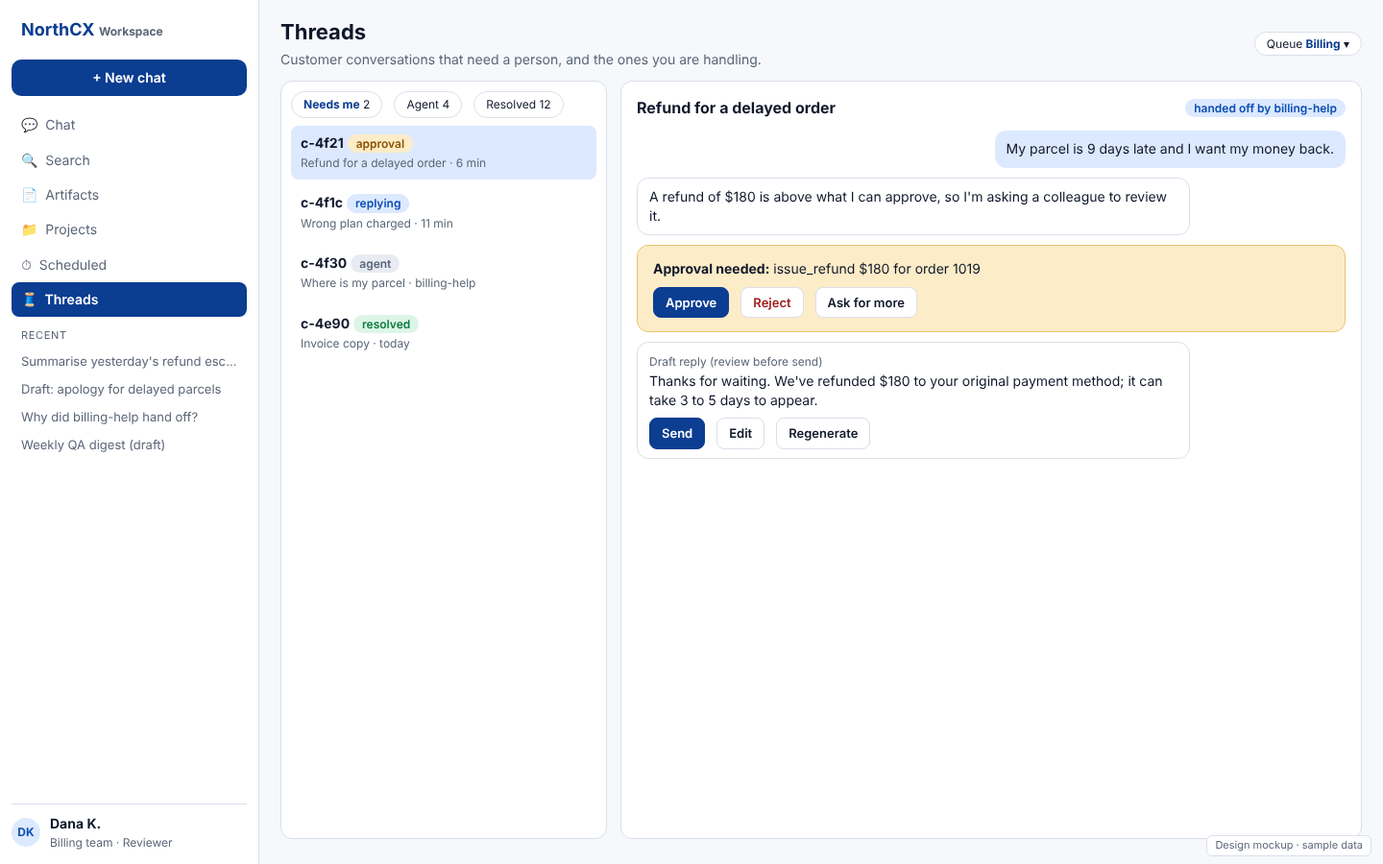
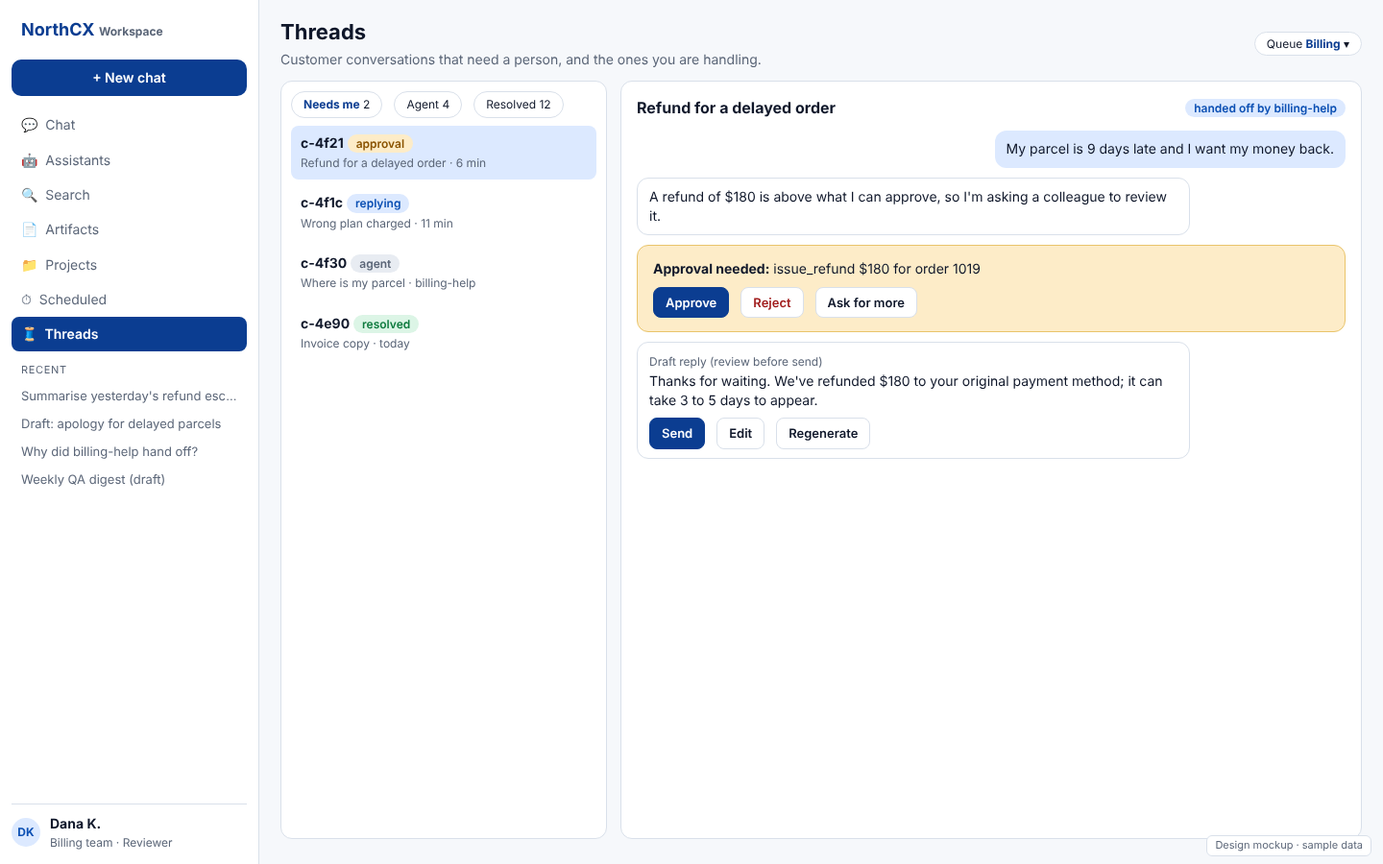
Workspace: Assistants as a tab in the left navigation (second, after Chat); all workspace mockups regenerated
Claude-Session: https://claude.ai/code/session_01JwVSXDmBfAEtrqDiy6qnSt

Changed region(s): [[0.0, 0.2178, 0.1875, 0.56], [0.0312, 0.1556, 0.0625, 0.1867]]

diff --git a/docs/07-design/mockups/19-workspace-scheduled.html b/docs/07-design/mockups/19-workspace-scheduled.html
@@ -39,7 +39,7 @@ td{padding:9px 10px;border-bottom:1px solid var(--border)}tr:last-child td{borde
 .sw2{width:36px;height:20px;border-radius:12px;background:var(--primary);position:relative;display:inline-block}.sw2:after{content:"";position:absolute;right:2px;top:2px;width:16px;height:16px;border-radius:50%;background:#fff}.sw2.off{background:var(--border)}.sw2.off:after{right:auto;left:2px}
 .setnav a{display:block;padding:8px 12px;border-radius:8px;color:var(--muted)}.setnav a.on{background:var(--info-bg);color:var(--info);font-weight:700}.setnav .grp{padding-top:14px}
 </style></head><body><div class="ws2">
-<div class="side"><div class="brand">NorthCX <span class="note">Workspace</span></div><a class="newc">+ New chat</a><div class="nav"><a class=""><span>&#128172; &nbsp;Chat</span></a><a class=""><span>&#128269; &nbsp;Search</span></a><a class=""><span>&#128196; &nbsp;Artifacts</span></a><a class=""><span>&#128193; &nbsp;Projects</span></a><a class="on"><span>&#9201; &nbsp;Scheduled</span></a><a class=""><span>&#129525; &nbsp;Threads</span></a></div><div class="grp">Recent</div><div class="recent ">Summarise yesterday&#x27;s refund escalations</div><div class="recent ">Draft: apology for delayed parcels</div><div class="recent ">Why did billing-help hand off?</div><div class="recent ">Weekly QA digest (draft)</div>
+<div class="side"><div class="brand">NorthCX <span class="note">Workspace</span></div><a class="newc">+ New chat</a><div class="nav"><a class=""><span>&#128172; &nbsp;Chat</span></a><a class=""><span>&#129302; &nbsp;Assistants</span></a><a class=""><span>&#128269; &nbsp;Search</span></a><a class=""><span>&#128196; &nbsp;Artifacts</span></a><a class=""><span>&#128193; &nbsp;Projects</span></a><a class="on"><span>&#9201; &nbsp;Scheduled</span></a><a class=""><span>&#129525; &nbsp;Threads</span></a></div><div class="grp">Recent</div><div class="recent ">Summarise yesterday&#x27;s refund escalations</div><div class="recent ">Draft: apology for delayed parcels</div><div class="recent ">Why did billing-help hand off?</div><div class="recent ">Weekly QA digest (draft)</div>
 <div class="me"><div class="av">DK</div><div><b>Dana K.</b><div class="note">Billing team &middot; Reviewer</div></div></div></div>
 <div class="work"><div class="row2" style="margin-bottom:12px"><div><h1 style="margin:0">Scheduled</h1><p class="sub" style="margin:2px 0 0">Tasks that run on their own and leave an artifact or a message. Every run is listed.</p></div><div><span class="btn p">+ New scheduled task</span></div></div>
 <div class="card" style="padding:4px 14px"><table><thead><tr><th>Task</th><th>Runs</th><th>Delivers to</th><th>Last run</th><th>Next run</th><th>Status</th><th></th></tr></thead><tbody><tr><td><b>Daily hand-off triage</b><br><span class=note>Tag and rank open hand-offs by urgency</span></td><td>every weekday 07:30</td><td>Billing queue</td><td>today 07:30</td><td>tomorrow 07:30</td><td><span class="b ok">OK</span></td><td><span class="sw2"></span></td></tr><tr><td><b>Weekly QA digest</b><br><span class=note>Score sampled conversations, summarise trends</span></td><td>Mondays 08:00</td><td>Artifact + email to leads</td><td>Mon 08:00</td><td>next Mon</td><td><span class="b ok">OK</span></td><td><span class="sw2"></span></td></tr><tr><td><b>SLA breach sweep</b><br><span class=note>Find hand-offs waiting over 30 min</span></td><td>every 15 min</td><td>Team channel</td><td>12 min ago</td><td>in 3 min</td><td><span class="b warn">1 failed run</span></td><td><span class="sw2"></span></td></tr><tr><td><b>Knowledge freshness check</b><br><span class=note>List sources not updated in 90 days</span></td><td>monthly</td><td>Artifact</td><td>Nov 1</td><td>Dec 1</td><td><span class="b gr">Paused</span></td><td><span class="sw2 off"></span></td></tr></tbody></table></div>

diff --git a/docs/07-design/mockups/18-workspace-projects.html b/docs/07-design/mockups/18-workspace-projects.html
@@ -39,7 +39,7 @@ td{padding:9px 10px;border-bottom:1px solid var(--border)}tr:last-child td{borde
 .sw2{width:36px;height:20px;border-radius:12px;background:var(--primary);position:relative;display:inline-block}.sw2:after{content:"";position:absolute;right:2px;top:2px;width:16px;height:16px;border-radius:50%;background:#fff}.sw2.off{background:var(--border)}.sw2.off:after{right:auto;left:2px}
 .setnav a{display:block;padding:8px 12px;border-radius:8px;color:var(--muted)}.setnav a.on{background:var(--info-bg);color:var(--info);font-weight:700}.setnav .grp{padding-top:14px}
 </style></head><body><div class="ws2">
-<div class="side"><div class="brand">NorthCX <span class="note">Workspace</span></div><a class="newc">+ New chat</a><div class="nav"><a class=""><span>&#128172; &nbsp;Chat</span></a><a class=""><span>&#128269; &nbsp;Search</span></a><a class=""><span>&#128196; &nbsp;Artifacts</span></a><a class="on"><span>&#128193; &nbsp;Projects</span></a><a class=""><span>&#9201; &nbsp;Scheduled</span></a><a class=""><span>&#129525; &nbsp;Threads</span></a></div><div class="grp">Recent</div><div class="recent ">Summarise yesterday&#x27;s refund escalations</div><div class="recent ">Draft: apology for delayed parcels</div><div class="recent ">Why did billing-help hand off?</div><div class="recent ">Weekly QA digest (draft)</div>
+<div class="side"><div class="brand">NorthCX <span class="note">Workspace</span></div><a class="newc">+ New chat</a><div class="nav"><a class=""><span>&#128172; &nbsp;Chat</span></a><a class=""><span>&#129302; &nbsp;Assistants</span></a><a class=""><span>&#128269; &nbsp;Search</span></a><a class=""><span>&#128196; &nbsp;Artifacts</span></a><a class="on"><span>&#128193; &nbsp;Projects</span></a><a class=""><span>&#9201; &nbsp;Scheduled</span></a><a class=""><span>&#129525; &nbsp;Threads</span></a></div><div class="grp">Recent</div><div class="recent ">Summarise yesterday&#x27;s refund escalations</div><div class="recent ">Draft: apology for delayed parcels</div><div class="recent ">Why did billing-help hand off?</div><div class="recent ">Weekly QA digest (draft)</div>
 <div class="me"><div class="av">DK</div><div><b>Dana K.</b><div class="note">Billing team &middot; Reviewer</div></div></div></div>
 <div class="work"><div class="row2" style="margin-bottom:12px"><div><h1 style="margin:0">Projects</h1><p class="sub" style="margin:2px 0 0">A project keeps instructions, sources, chats and artifacts for one piece of work together.</p></div><div><span class="btn p">+ New project</span></div></div>
 <div class="g3"><div class="card"><div class="row2"><b>Billing escalations</b><span class="b info">team</span></div><p class="note">Instructions: be brief, cite the policy, never quote card numbers.</p><p class="note">Sources: Refund policy, Billing playbook &middot; 14 chats &middot; 6 artifacts</p><div class="bar"><i style="width:62%"></i></div><p class="note">Context in use: 62%</p></div>

diff --git a/docs/07-design/mockups/25-workspace-home.html b/docs/07-design/mockups/25-workspace-home.html
@@ -39,7 +39,7 @@ td{padding:9px 10px;border-bottom:1px solid var(--border)}tr:last-child td{borde
 .sw2{width:36px;height:20px;border-radius:12px;background:var(--primary);position:relative;display:inline-block}.sw2:after{content:"";position:absolute;right:2px;top:2px;width:16px;height:16px;border-radius:50%;background:#fff}.sw2.off{background:var(--border)}.sw2.off:after{right:auto;left:2px}
 .setnav a{display:block;padding:8px 12px;border-radius:8px;color:var(--muted)}.setnav a.on{background:var(--info-bg);color:var(--info);font-weight:700}.setnav .grp{padding-top:14px}
 </style></head><body><div class="ws2">
-<div class="side"><div class="brand">NorthCX <span class="note">Workspace</span></div><a class="newc">+ New chat</a><div class="nav"><a class="on"><span>&#128172; &nbsp;Chat</span></a><a class=""><span>&#128269; &nbsp;Search</span></a><a class=""><span>&#128196; &nbsp;Artifacts</span></a><a class=""><span>&#128193; &nbsp;Projects</span></a><a class=""><span>&#9201; &nbsp;Scheduled</span></a><a class=""><span>&#129525; &nbsp;Threads</span></a></div><div class="grp">Recent</div><div class="recent ">Summarise yesterday&#x27;s refund escalations</div><div class="recent ">Draft: apology for delayed parcels</div><div class="recent ">Why did billing-help hand off?</div><div class="recent ">Weekly QA digest (draft)</div>
+<div class="side"><div class="brand">NorthCX <span class="note">Workspace</span></div><a class="newc">+ New chat</a><div class="nav"><a class="on"><span>&#128172; &nbsp;Chat</span></a><a class=""><span>&#129302; &nbsp;Assistants</span></a><a class=""><span>&#128269; &nbsp;Search</span></a><a class=""><span>&#128196; &nbsp;Artifacts</span></a><a class=""><span>&#128193; &nbsp;Projects</span></a><a class=""><span>&#9201; &nbsp;Scheduled</span></a><a class=""><span>&#129525; &nbsp;Threads</span></a></div><div class="grp">Recent</div><div class="recent ">Summarise yesterday&#x27;s refund escalations</div><div class="recent ">Draft: apology for delayed parcels</div><div class="recent ">Why did billing-help hand off?</div><div class="recent ">Weekly QA digest (draft)</div>
 <div class="me"><div class="av">DK</div><div><b>Dana K.</b><div class="note">Billing team &middot; Reviewer</div></div></div></div>
 <div class="work"><div style="max-width:880px;margin:30px auto 0"><h1 style="font-size:28px;margin:0 0 4px">Good afternoon, Dana</h1><p class="sub">2 things need you. Your Monday QA digest is ready.</p>
 <div class="card" style="padding:16px;margin-top:14px"><span class="mut" style="font-size:16px">What do you want to do?</span><div class="row" style="margin-top:14px;gap:8px"><span class="pill">+</span><span class="pill">Assistant <b>care-copilot</b></span><span class="pill">Project <b>Billing escalations</b></span><span class="pill">Sources <b>Knowledge, Conversations</b></span><div style="flex:1"></div><span class="btn p">Start</span></div></div>

diff --git a/docs/07-design/mockups/24-workspace-artifacts.html b/docs/07-design/mockups/24-workspace-artifacts.html
@@ -39,7 +39,7 @@ td{padding:9px 10px;border-bottom:1px solid var(--border)}tr:last-child td{borde
 .sw2{width:36px;height:20px;border-radius:12px;background:var(--primary);position:relative;display:inline-block}.sw2:after{content:"";position:absolute;right:2px;top:2px;width:16px;height:16px;border-radius:50%;background:#fff}.sw2.off{background:var(--border)}.sw2.off:after{right:auto;left:2px}
 .setnav a{display:block;padding:8px 12px;border-radius:8px;color:var(--muted)}.setnav a.on{background:var(--info-bg);color:var(--info);font-weight:700}.setnav .grp{padding-top:14px}
 </style></head><body><div class="ws2">
-<div class="side"><div class="brand">NorthCX <span class="note">Workspace</span></div><a class="newc">+ New chat</a><div class="nav"><a class=""><span>&#128172; &nbsp;Chat</span></a><a class=""><span>&#128269; &nbsp;Search</span></a><a class="on"><span>&#128196; &nbsp;Artifacts</span></a><a class=""><span>&#128193; &nbsp;Projects</span></a><a class=""><span>&#9201; &nbsp;Scheduled</span></a><a class=""><span>&#129525; &nbsp;Threads</span></a></div><div class="grp">Recent</div><div class="recent ">Summarise yesterday&#x27;s refund escalations</div><div class="recent ">Draft: apology for delayed parcels</div><div class="recent ">Why did billing-help hand off?</div><div class="recent ">Weekly QA digest (draft)</div>
+<div class="side"><div class="brand">NorthCX <span class="note">Workspace</span></div><a class="newc">+ New chat</a><div class="nav"><a class=""><span>&#128172; &nbsp;Chat</span></a><a class=""><span>&#129302; &nbsp;Assistants</span></a><a class=""><span>&#128269; &nbsp;Search</span></a><a class="on"><span>&#128196; &nbsp;Artifacts</span></a><a class=""><span>&#128193; &nbsp;Projects</span></a><a class=""><span>&#9201; &nbsp;Scheduled</span></a><a class=""><span>&#129525; &nbsp;Threads</span></a></div><div class="grp">Recent</div><div class="recent ">Summarise yesterday&#x27;s refund escalations</div><div class="recent ">Draft: apology for delayed parcels</div><div class="recent ">Why did billing-help hand off?</div><div class="recent ">Weekly QA digest (draft)</div>
 <div class="me"><div class="av">DK</div><div><b>Dana K.</b><div class="note">Billing team &middot; Reviewer</div></div></div></div>
 <div class="work"><div class="row2" style="margin-bottom:12px"><div><h1 style="margin:0">Artifacts</h1><p class="sub" style="margin:2px 0 0">Everything your assistants have produced for you and your team. Versioned, shareable, schedulable.</p></div><div><span class="btn">Export</span></div></div>
 <div class="tools"><span class="in">Search artifacts&hellip;</span><span class="pill"><b>All</b></span><span class="pill">Summaries</span><span class="pill">Drafts</span><span class="pill">Reports</span><span class="pill">Digests</span><div style="flex:1"></div><span class="in">Project: Any &#9662;</span><span class="in">Owner: Me &#9662;</span></div>

diff --git a/docs/07-design/mockups/17-workspace-search.html b/docs/07-design/mockups/17-workspace-search.html
@@ -39,7 +39,7 @@ td{padding:9px 10px;border-bottom:1px solid var(--border)}tr:last-child td{borde
 .sw2{width:36px;height:20px;border-radius:12px;background:var(--primary);position:relative;display:inline-block}.sw2:after{content:"";position:absolute;right:2px;top:2px;width:16px;height:16px;border-radius:50%;background:#fff}.sw2.off{background:var(--border)}.sw2.off:after{right:auto;left:2px}
 .setnav a{display:block;padding:8px 12px;border-radius:8px;color:var(--muted)}.setnav a.on{background:var(--info-bg);color:var(--info);font-weight:700}.setnav .grp{padding-top:14px}
 </style></head><body><div class="ws2">
-<div class="side"><div class="brand">NorthCX <span class="note">Workspace</span></div><a class="newc">+ New chat</a><div class="nav"><a class=""><span>&#128172; &nbsp;Chat</span></a><a class="on"><span>&#128269; &nbsp;Search</span></a><a class=""><span>&#128196; &nbsp;Artifacts</span></a><a class=""><span>&#128193; &nbsp;Projects</span></a><a class=""><span>&#9201; &nbsp;Scheduled</span></a><a class=""><span>&#129525; &nbsp;Threads</span></a></div><div class="grp">Recent</div><div class="recent ">Summarise yesterday&#x27;s refund escalations</div><div class="recent ">Draft: apology for delayed parcels</div><div class="recent ">Why did billing-help hand off?</div><div class="recent ">Weekly QA digest (draft)</div>
+<div class="side"><div class="brand">NorthCX <span class="note">Workspace</span></div><a class="newc">+ New chat</a><div class="nav"><a class=""><span>&#128172; &nbsp;Chat</span></a><a class=""><span>&#129302; &nbsp;Assistants</span></a><a class="on"><span>&#128269; &nbsp;Search</span></a><a class=""><span>&#128196; &nbsp;Artifacts</span></a><a class=""><span>&#128193; &nbsp;Projects</span></a><a class=""><span>&#9201; &nbsp;Scheduled</span></a><a class=""><span>&#129525; &nbsp;Threads</span></a></div><div class="grp">Recent</div><div class="recent ">Summarise yesterday&#x27;s refund escalations</div><div class="recent ">Draft: apology for delayed parcels</div><div class="recent ">Why did billing-help hand off?</div><div class="recent ">Weekly QA digest (draft)</div>
 <div class="me"><div class="av">DK</div><div><b>Dana K.</b><div class="note">Billing team &middot; Reviewer</div></div></div></div>
 <div class="work"><div class="row2" style="margin-bottom:12px"><div><h1 style="margin:0">Search</h1><p class="sub" style="margin:2px 0 0">Across knowledge, conversations, hand-offs and artifacts you are allowed to see.</p></div><div></div></div>
 <div class="card" style="padding:14px"><div class="search" style="max-width:none;border:1px solid var(--border);border-radius:8px;padding:9px 12px;background:var(--bg);color:var(--text)">refund policy delayed delivery</div>

diff --git a/docs/07-design/mockups/37-workspace-agent-hub.html b/docs/07-design/mockups/37-workspace-agent-hub.html
@@ -39,7 +39,7 @@ td{padding:9px 10px;border-bottom:1px solid var(--border)}tr:last-child td{borde
 .sw2{width:36px;height:20px;border-radius:12px;background:var(--primary);position:relative;display:inline-block}.sw2:after{content:"";position:absolute;right:2px;top:2px;width:16px;height:16px;border-radius:50%;background:#fff}.sw2.off{background:var(--border)}.sw2.off:after{right:auto;left:2px}
 .setnav a{display:block;padding:8px 12px;border-radius:8px;color:var(--muted)}.setnav a.on{background:var(--info-bg);color:var(--info);font-weight:700}.setnav .grp{padding-top:14px}
 </style></head><body><div class="ws2">
-<div class="side"><div class="brand">NorthCX <span class="note">Workspace</span></div><a class="newc">+ New chat</a><div class="nav"><a class="on"><span>&#128172; &nbsp;Chat</span></a><a class=""><span>&#128269; &nbsp;Search</span></a><a class=""><span>&#128196; &nbsp;Artifacts</span></a><a class=""><span>&#128193; &nbsp;Projects</span></a><a class=""><span>&#9201; &nbsp;Scheduled</span></a><a class=""><span>&#129525; &nbsp;Threads</span></a></div><div class="grp">Recent</div><div class="recent ">Summarise yesterday&#x27;s refund escalations</div><div class="recent ">Draft: apology for delayed parcels</div><div class="recent ">Why did billing-help hand off?</div><div class="recent ">Weekly QA digest (draft)</div>
+<div class="side"><div class="brand">NorthCX <span class="note">Workspace</span></div><a class="newc">+ New chat</a><div class="nav"><a class=""><span>&#128172; &nbsp;Chat</span></a><a class="on"><span>&#129302; &nbsp;Assistants</span></a><a class=""><span>&#128269; &nbsp;Search</span></a><a class=""><span>&#128196; &nbsp;Artifacts</span></a><a class=""><span>&#128193; &nbsp;Projects</span></a><a class=""><span>&#9201; &nbsp;Scheduled</span></a><a class=""><span>&#129525; &nbsp;Threads</span></a></div><div class="grp">Recent</div><div class="recent ">Summarise yesterday&#x27;s refund escalations</div><div class="recent ">Draft: apology for delayed parcels</div><div class="recent ">Why did billing-help hand off?</div><div class="recent ">Weekly QA digest (draft)</div>
 <div class="me"><div class="av">DK</div><div><b>Dana K.</b><div class="note">Billing team &middot; Reviewer</div></div></div></div>
 <div class="work"><div class="row2" style="margin-bottom:12px"><div><h1 style="margin:0">Assistants</h1><p class="sub" style="margin:2px 0 0">Predefined assistants your organization has made available. Pick one to start a chat with it.</p></div><div></div></div>
 <div class="tools"><span class="in">Search assistants&hellip;</span><span class="pill"><b>All</b></span><span class="pill">Favorites</span><span class="pill">My team</span></div>

diff --git a/docs/07-design/mockups/20-workspace-threads.html b/docs/07-design/mockups/20-workspace-threads.html
@@ -39,7 +39,7 @@ td{padding:9px 10px;border-bottom:1px solid var(--border)}tr:last-child td{borde
 .sw2{width:36px;height:20px;border-radius:12px;background:var(--primary);position:relative;display:inline-block}.sw2:after{content:"";position:absolute;right:2px;top:2px;width:16px;height:16px;border-radius:50%;background:#fff}.sw2.off{background:var(--border)}.sw2.off:after{right:auto;left:2px}
 .setnav a{display:block;padding:8px 12px;border-radius:8px;color:var(--muted)}.setnav a.on{background:var(--info-bg);color:var(--info);font-weight:700}.setnav .grp{padding-top:14px}
 </style></head><body><div class="ws2">
-<div class="side"><div class="brand">NorthCX <span class="note">Workspace</span></div><a class="newc">+ New chat</a><div class="nav"><a class=""><span>&#128172; &nbsp;Chat</span></a><a class=""><span>&#128269; &nbsp;Search</span></a><a class=""><span>&#128196; &nbsp;Artifacts</span></a><a class=""><span>&#128193; &nbsp;Projects</span></a><a class=""><span>&#9201; &nbsp;Scheduled</span></a><a class="on"><span>&#129525; &nbsp;Threads</span></a></div><div class="grp">Recent</div><div class="recent ">Summarise yesterday&#x27;s refund escalations</div><div class="recent ">Draft: apology for delayed parcels</div><div class="recent ">Why did billing-help hand off?</div><div class="recent ">Weekly QA digest (draft)</div>
+<div class="side"><div class="brand">NorthCX <span class="note">Workspace</span></div><a class="newc">+ New chat</a><div class="nav"><a class=""><span>&#128172; &nbsp;Chat</span></a><a class=""><span>&#129302; &nbsp;Assistants</span></a><a class=""><span>&#128269; &nbsp;Search</span></a><a class=""><span>&#128196; &nbsp;Artifacts</span></a><a class=""><span>&#128193; &nbsp;Projects</span></a><a class=""><span>&#9201; &nbsp;Scheduled</span></a><a class="on"><span>&#129525; &nbsp;Threads</span></a></div><div class="grp">Recent</div><div class="recent ">Summarise yesterday&#x27;s refund escalations</div><div class="recent ">Draft: apology for delayed parcels</div><div class="recent ">Why did billing-help hand off?</div><div class="recent ">Weekly QA digest (draft)</div>
 <div class="me"><div class="av">DK</div><div><b>Dana K.</b><div class="note">Billing team &middot; Reviewer</div></div></div></div>
 <div class="work"><div class="row2" style="margin-bottom:12px"><div><h1 style="margin:0">Threads</h1><p class="sub" style="margin:2px 0 0">Customer conversations that need a person, and the ones you are handling.</p></div><div><span class="pill">Queue <b>Billing</b> &#9662;</span></div></div>
 <div class="split" style="grid-template-columns:340px 1fr"><div class="card" style="padding:10px">

diff --git a/docs/07-design/mockups/33-workspace-model-picker.html b/docs/07-design/mockups/33-workspace-model-picker.html
@@ -39,7 +39,7 @@ td{padding:9px 10px;border-bottom:1px solid var(--border)}tr:last-child td{borde
 .sw2{width:36px;height:20px;border-radius:12px;background:var(--primary);position:relative;display:inline-block}.sw2:after{content:"";position:absolute;right:2px;top:2px;width:16px;height:16px;border-radius:50%;background:#fff}.sw2.off{background:var(--border)}.sw2.off:after{right:auto;left:2px}
 .setnav a{display:block;padding:8px 12px;border-radius:8px;color:var(--muted)}.setnav a.on{background:var(--info-bg);color:var(--info);font-weight:700}.setnav .grp{padding-top:14px}
 </style></head><body><div class="ws2">
-<div class="side"><div class="brand">NorthCX <span class="note">Workspace</span></div><a class="newc">+ New chat</a><div class="nav"><a class="on"><span>&#128172; &nbsp;Chat</span></a><a class=""><span>&#128269; &nbsp;Search</span></a><a class=""><span>&#128196; &nbsp;Artifacts</span></a><a class=""><span>&#128193; &nbsp;Projects</span></a><a class=""><span>&#9201; &nbsp;Scheduled</span></a><a class=""><span>&#129525; &nbsp;Threads</span></a></div><div class="grp">Recent</div><div class="recent on">Summarise yesterday&#x27;s refund escalations</div><div class="recent ">Draft: apology for delayed parcels</div><div class="recent ">Why did billing-help hand off?</div><div class="recent ">Weekly QA digest (draft)</div>
+<div class="side"><div class="brand">NorthCX <span class="note">Workspace</span></div><a class="newc">+ New chat</a><div class="nav"><a class="on"><span>&#128172; &nbsp;Chat</span></a><a class=""><span>&#129302; &nbsp;Assistants</span></a><a class=""><span>&#128269; &nbsp;Search</span></a><a class=""><span>&#128196; &nbsp;Artifacts</span></a><a class=""><span>&#128193; &nbsp;Projects</span></a><a class=""><span>&#9201; &nbsp;Scheduled</span></a><a class=""><span>&#129525; &nbsp;Threads</span></a></div><div class="grp">Recent</div><div class="recent on">Summarise yesterday&#x27;s refund escalations</div><div class="recent ">Draft: apology for delayed parcels</div><div class="recent ">Why did billing-help hand off?</div><div class="recent ">Weekly QA digest (draft)</div>
 <div class="me"><div class="av">DK</div><div><b>Dana K.</b><div class="note">Billing team &middot; Reviewer</div></div></div></div>
 <div class="work"><div class="split"><div class="card" style="display:flex;flex-direction:column;position:relative;padding:16px">
 <div class="row2"><b>Draft a note about the duplicate charges</b><span class="pill">Assistant <b>care-copilot</b></span></div>

diff --git a/docs/07-design/mockups/16-workspace-chat.html b/docs/07-design/mockups/16-workspace-chat.html
@@ -39,7 +39,7 @@ td{padding:9px 10px;border-bottom:1px solid var(--border)}tr:last-child td{borde
 .sw2{width:36px;height:20px;border-radius:12px;background:var(--primary);position:relative;display:inline-block}.sw2:after{content:"";position:absolute;right:2px;top:2px;width:16px;height:16px;border-radius:50%;background:#fff}.sw2.off{background:var(--border)}.sw2.off:after{right:auto;left:2px}
 .setnav a{display:block;padding:8px 12px;border-radius:8px;color:var(--muted)}.setnav a.on{background:var(--info-bg);color:var(--info);font-weight:700}.setnav .grp{padding-top:14px}
 </style></head><body><div class="ws2">
-<div class="side"><div class="brand">NorthCX <span class="note">Workspace</span></div><a class="newc">+ New chat</a><div class="nav"><a class="on"><span>&#128172; &nbsp;Chat</span></a><a class=""><span>&#128269; &nbsp;Search</span></a><a class=""><span>&#128196; &nbsp;Artifacts</span></a><a class=""><span>&#128193; &nbsp;Projects</span></a><a class=""><span>&#9201; &nbsp;Scheduled</span></a><a class=""><span>&#129525; &nbsp;Threads</span></a></div><div class="grp">Recent</div><div class="recent on">Summarise yesterday&#x27;s refund escalations</div><div class="recent ">Draft: apology for delayed parcels</div><div class="recent ">Why did billing-help hand off?</div><div class="recent ">Weekly QA digest (draft)</div>
+<div class="side"><div class="brand">NorthCX <span class="note">Workspace</span></div><a class="newc">+ New chat</a><div class="nav"><a class="on"><span>&#128172; &nbsp;Chat</span></a><a class=""><span>&#129302; &nbsp;Assistants</span></a><a class=""><span>&#128269; &nbsp;Search</span></a><a class=""><span>&#128196; &nbsp;Artifacts</span></a><a class=""><span>&#128193; &nbsp;Projects</span></a><a class=""><span>&#9201; &nbsp;Scheduled</span></a><a class=""><span>&#129525; &nbsp;Threads</span></a></div><div class="grp">Recent</div><div class="recent on">Summarise yesterday&#x27;s refund escalations</div><div class="recent ">Draft: apology for delayed parcels</div><div class="recent ">Why did billing-help hand off?</div><div class="recent ">Weekly QA digest (draft)</div>
 <div class="me"><div class="av">DK</div><div><b>Dana K.</b><div class="note">Billing team &middot; Reviewer</div></div></div></div>
 <div class="work"><div class="split"><div class="card" style="display:flex;flex-direction:column;position:relative;padding:16px">
 <div class="row2"><b>Summarise yesterday's refund escalations</b><span class="pill">Agent <b>care-copilot</b></span></div>

diff --git a/scripts/gen_design_mockups.py b/scripts/gen_design_mockups.py
@@ -238,7 +238,7 @@ WS_CSS = CSS + """
 .setnav a{display:block;padding:8px 12px;border-radius:8px;color:var(--muted)}.setnav a.on{background:var(--info-bg);color:var(--info);font-weight:700}.setnav .grp{padding-top:14px}
 """
 
-WS_NAV = [("Chat", "&#128172;"), ("Search", "&#128269;"), ("Artifacts", "&#128196;"), ("Projects", "&#128193;"), ("Scheduled", "&#9201;"), ("Threads", "&#129525;")]
+WS_NAV = [("Chat", "&#128172;"), ("Assistants", "&#129302;"), ("Search", "&#128269;"), ("Artifacts", "&#128196;"), ("Projects", "&#128193;"), ("Scheduled", "&#9201;"), ("Threads", "&#129525;")]
 RECENT = ["Summarise yesterday's refund escalations", "Draft: apology for delayed parcels", "Why did billing-help hand off?", "Weekly QA digest (draft)"]
 
 
@@ -478,7 +478,7 @@ SCREENS["36-admin-hub-install"] = settings_shell("Agent Hub", "Install: Returns 
 <div><div class="card"><h3>Tests that come with it</h3>{table(["Scenario","Result"],[["Asks for a return inside the window",badge("passes","ok")],["Asks for a refund above the limit",badge("hands off for approval","ok")],["Return outside the window",badge("explains the policy","ok")],["Tries to talk the agent past the limit",badge("refused","ok")],["Order not found",badge("hands off","ok")]])}<p class="note" style="margin-top:8px">5 of 5 passed against your settings. These join your required scenarios.</p></div>
 <div class="card" style="margin-top:12px"><h3>What this creates</h3><p class="note">A draft agent <b>returns-and-refunds</b> (version 1) in Staging. It is not live. Releasing to Production follows your release rules (two-person approval).</p><div class="row"><span class="btn p">Create draft</span><span class="btn">Cancel</span></div></div></div></div>""")
 
-SCREENS["37-workspace-agent-hub"] = wsapp("Chat", head("Assistants", "Predefined assistants your organization has made available. Pick one to start a chat with it.") + f"""
+SCREENS["37-workspace-agent-hub"] = wsapp("Assistants", head("Assistants", "Predefined assistants your organization has made available. Pick one to start a chat with it.") + f"""
 <div class="tools"><span class="in">Search assistants&hellip;</span><span class="pill"><b>All</b></span><span class="pill">Favorites</span><span class="pill">My team</span></div>
 <div class="g3">{_card("Care copilot","Billing team &middot; v2","Drafts replies, summarises a conversation, finds the policy that applies. Cannot send anything on its own.",["knowledge","conversations (masked)"],badge("Favorite","info"),"Start chat")}
 {_card("QA assistant","Support leads &middot; v1","Scores sampled conversations against the Support scorecard and explains each score.",["reviews","scorecards"],badge("Leads only","gr"),"Start chat")}

diff --git a/docs/07-design/NorthCX_Admin-Platform-Design.md b/docs/07-design/NorthCX_Admin-Platform-Design.md
@@ -7,11 +7,12 @@ Source files: `07-design/mockups/*.html` (regenerate with `python scripts/gen_de
 ## 0. Layout decided on 2026-11-09 (supersedes the earlier arrangement where they differ)
 The owner described the layout; the two windows are:
 
-**Window 1, Workspace (the agent platform for staff).** Left side: a navigation list (**Chat, Search, Artifacts, Projects, Scheduled, Threads**), a "New chat" button, recent chats and the signed-in person. Right side: the **working space**, which shows the selected area. In Chat it is the conversation next to an artifact panel (the thing being produced, with copy, edit, share and schedule). Threads is where customer conversations that need a person are handled (the queue, the approval card, the draft reply).
+**Window 1, Workspace (the agent platform for staff).** Left side: a navigation list (**Chat, Assistants, Search, Artifacts, Projects, Scheduled, Threads**), a "New chat" button, recent chats and the signed-in person. Right side: the **working space**, which shows the selected area. In Chat it is the conversation next to an artifact panel (the thing being produced, with copy, edit, share and schedule). Threads is where customer conversations that need a person are handled (the queue, the approval card, the draft reply).
 
 | Left item | What it is | Mockup |
 |---|---|---|
 | Chat | Talk to a staff assistant (search, summarise, draft, report); answers cite sources; outputs open as artifacts | ![Chat](../assets/design/16-workspace-chat.png) |
+| Assistants | The predefined assistants this person may use (Agent Hub entries made available to them): search, favorites, what each can see and do, start a chat | ![Assistants](../assets/design/37-workspace-agent-hub.png) |
 | Search | One search across knowledge, conversations, hand-offs and artifacts, with the access reason on each result | ![Search](../assets/design/17-workspace-search.png) |
 | Artifacts | Library of everything produced (summaries, drafts, reports, digests): versions, share to team, schedule, export. **Not drawn yet**; the artifact panel in Chat shows one | (see Chat) |
 | Projects | Instructions, sources, chats and artifacts kept together for one piece of work (team or private) | ![Projects](../assets/design/18-workspace-projects.png) |

diff --git a/docs/07-design/NorthCX_Agent-Hub-Design.md b/docs/07-design/NorthCX_Agent-Hub-Design.md
@@ -6,7 +6,7 @@ Status: **proposed** (2026-11-09). What exists today is named under section 2; t
 The **Agent Hub** is a gallery of predefined agents. A person installs one, fills in its details, checks what it needs, runs its tests, and releases it the same way as any agent. It exists for two audiences:
 
 - **Admin** (Agent Hub in Settings and admin): browse, install, update, publish the organization's own agents, retire.
-- **Workspace** (Assistants): staff browse and start a chat with the assistants their organization has made available.
+- **Workspace** (**Assistants**, a tab in the left navigation, second after Chat): staff browse and start a chat with the assistants their organization has made available.
 
 ![Admin Agent Hub](../assets/design/35-admin-agent-hub.png)
 ![Install flow](../assets/design/36-admin-hub-install.png)
